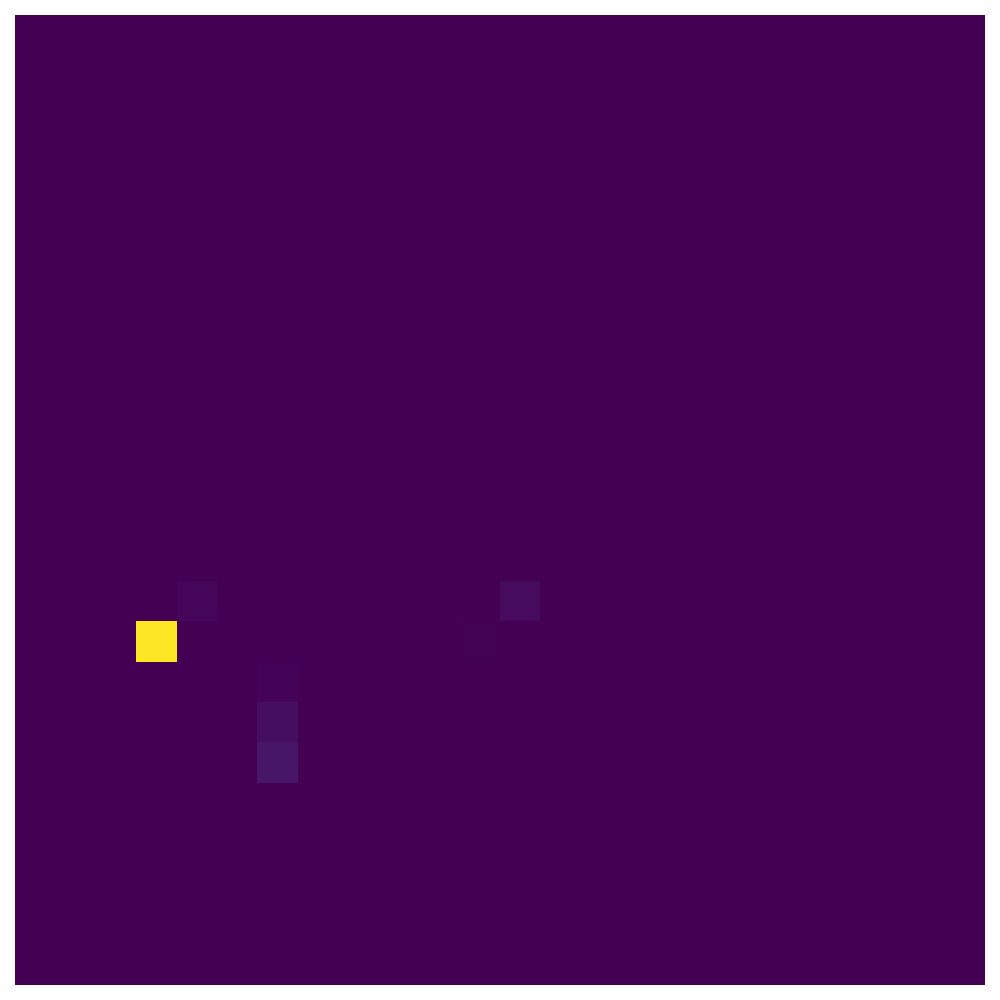
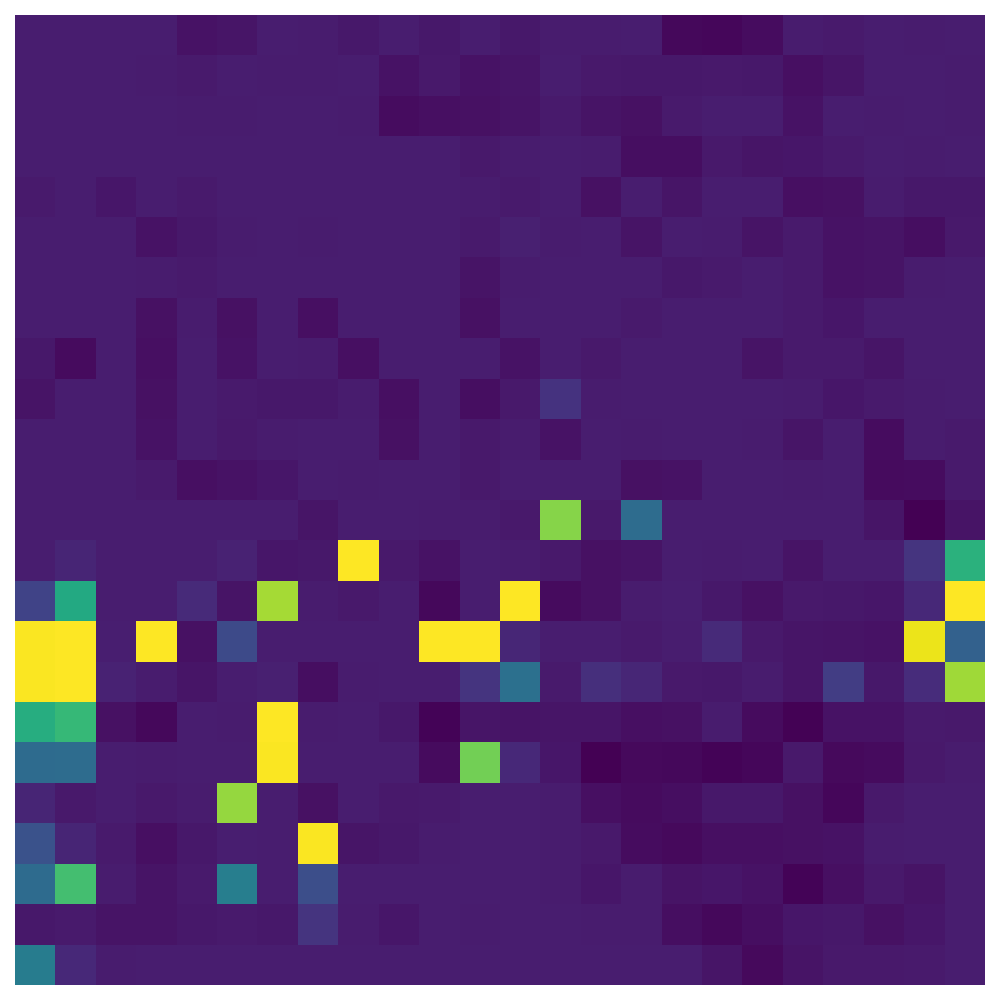
add: some additional visualizatons

diff --git a/ssl_tests/ssl_visualization.py b/ssl_tests/ssl_visualization.py
@@ -20,6 +20,7 @@ from argparse import Namespace
 from PIL import Image
 from icecream import ic
 from pathlib import Path
+import einops as ein
 
 
 # %%
@@ -123,6 +124,7 @@ for model_option in options:
         output_dir="/home/mereur1/projects/ocl/ssl_nat_aug/ssl_tests/ssl_feats_vis/",
         kmeans=20,
         model_option=model_option,
+        use_cbar=False,
     )
 
     device = torch.device("cuda") if torch.cuda.is_available() else torch.device("cpu")
@@ -149,7 +151,17 @@ for model_option in options:
         )
         attn = model.get_last_selfattention(image_resized)
     ic(attn.shape)
-    import einops as ein
+    ic(attn.max()) 
+    ic(attn.min())
+    ic(attn.mean())
+    
+    if model_option in ["MAE", "DeiT-III"]:
+        mean_attn = attn.mean(dim=1, keepdim=True)
+        # attn = torch.where(attn > mean_attn, mean_attn, attn)
+        attn = attn - attn.mean(dim=1, keepdim=True)
+        # attn = attn / attn.std(dim=1, keepdim=True)
+        if model_option == "MAE":
+            attn = attn / attn.std(dim=1, keepdim=True)
 
     for idx, at in enumerate(attn[0]):
         at = at[0]
@@ -167,13 +179,28 @@ for model_option in options:
         
         # TODO: make h and w dynamic
         at = ein.rearrange(at, "(h w) -> h w", h=h, w=w)
-        fig, ax = plt.subplots(figsize=(10, 10))
-        ax.axis("off")
-        ax.imshow(at.cpu().numpy())
-        plt.tight_layout()
-        plt.savefig(os.path.join(args.output_dir, f"attention_vis{idx}.png"))
-        plt.show()
-        plt.close(fig)
+        if args.use_cbar:
+            fig, (ax_img, ax_cbar) = plt.subplots(1, 2, figsize=(11, 10), 
+                                            gridspec_kw={'width_ratios': [20, 1]})
 
-
-# %%
+            # Plot the attention map
+            im = ax_img.imshow(at.cpu().numpy(), aspect='equal')
+            ax_img.axis("off")
+            
+            # Add a small, vertical colorbar
+            cbar = fig.colorbar(im, cax=ax_cbar)
+            ax_cbar.yaxis.tick_right()
+            ax_cbar.yaxis.set_label_position("right")
+            
+            plt.tight_layout()
+            plt.savefig(os.path.join(args.output_dir, f"attention_vis_cbar_{idx}.png"))
+            plt.show()
+            plt.close(fig)
+        else:
+            fig, ax = plt.subplots(figsize=(10, 10))
+            ax.axis("off")
+            ax.imshow(at.cpu().numpy())
+            plt.tight_layout()
+            plt.savefig(os.path.join(args.output_dir, f"attention_vis{idx}.png"))
+            plt.show()
+            plt.close(fig)
